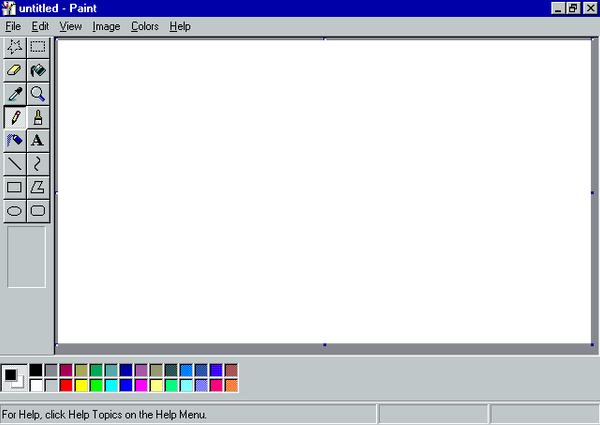
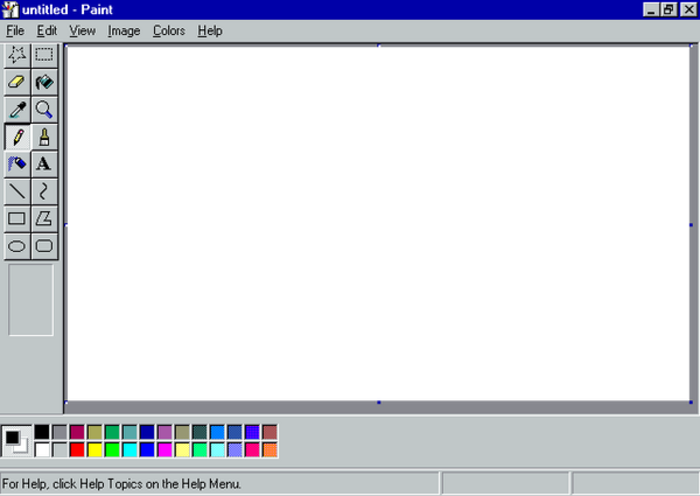
diferentes dificuultades, solo colores x ahora

diff --git a/src/Game/Game.jsx b/src/Game/Game.jsx
@@ -1,41 +1,52 @@
 import React from "react";
 import Board from "../Components/Board";
-
 import {useNavigate} from "react-router-dom";
+import "./Game.css";
+
 
 const Game = () => {
-  //mejor que sea facil: colores clasicos
-  //medium colores mas niche(?) pero distinos
-  //dificil colores similares
 
-  /*  const list = [
-    { colorName: "Red",     hex: "#FF0000" },
-    { colorName: "Orange",  hex: "#FFA500" },
-    { colorName: "Yellow",  hex: "#FFFF00" },
-    { colorName: "Green",   hex: "#008000" },
-    { colorName: "Blue",    hex: "#0000FF" },
-    { colorName: "Purple",  hex: "#800080" },
-    { colorName: "Magenta", hex: "#FF00FF" },
-    { colorName: "Black",   hex: "#000000"}
-  ]; 
+const colorHexDictionary = {
+  Red: "#FF0000",
+  Orange: "#FFA500",
+  Yellow: "#FFFF00",
+  Green: "#008000",
+  Cyan: "#00FFFF",
+  Blue: "#0000FF",
+  Purple: "#800080",
+  Magenta: "#FF00FF",
+  SlateGray: "#708090",
+  FireBrick: "#B22222",
+  Khaki: "#F0E68C",
+  YellowGreen: "#9ACD32",
+  DarkCyan: "#008B8B",
+  RoyalBlue: "#4169E1",
+  RebeccaPurple: "#663399",
+  Orchid: "#DA70D6",
+  LightCoral: "#F08080",
+  Tomato: "#FF6347",
+  GhostWhite: "#F8F8FF",
+  SpringGreen: "#00FF7F",
+  DarkTurquoise: "#00CED1",
+  MidnightBlue: "#191970",
+  MediumPurple: "#9370DB",
+  MediumVioletRed: "#C71585"
+};
 
-*/
+//recibir como query param la dificultad
+const difficulty = "hard";
 
-  const list = [
-    "Red",
-    "Orange",
-    "Yellow",
-    "Green",
-    "Blue",
-    "Purple",
-    "Magenta",
-    "Black",
-  ];
+//es solo lso colores nombres x ahora 
+const easyList = Object.keys(colorHexDictionary).slice(0, 8);
+const mediumList = Object.keys(colorHexDictionary).slice(0, 16);
+const hardList = Object.keys(colorHexDictionary).slice(0, 24);
 
-  //toda la logica de elegir modo de juego seria mandarle
-  //la lista que corresponda acorde a botones
-  //y para 2 jugadores mandarle un bool de 1 jug
+const list = difficulty === "easy" ? easyList : difficulty === "medium" ? mediumList : hardList;
+//ta raro no mg ^^
 
+//recibir como query param el numero de jugadores
+
+console.log(list);
 
   const navigate = useNavigate();
   const goHome = () => {
@@ -45,7 +56,7 @@ const Game = () => {
   return (
     <div>
       <Board list={list} />
-      <div className="button" onClick={goHome}> Play</div>
+      <div className="button" onClick={goHome}>go home</div>
     </div>
   );
 };

diff --git a/src/home/Home.jsx b/src/home/Home.jsx
@@ -1,19 +1,43 @@
 import React from "react";
 import {useNavigate} from "react-router-dom";
+import { useState } from "react";
 import "./Home.css";
 
 const Home = () => {
   const navigate = useNavigate();
   const goToBoard = () => {
     navigate("/play");
+    /*pasar como params ?? o como??*/ 
   };
+
+  const [difficulty, setDifficulty] = useState("easy");
+  const [numberOfPlayers, setNumberOfPlayers] = useState(1);
+
+  const selectDifficulty = (level) => () => {
+    setDifficulty(level);
+  }
+
+  const selectNumberOfPlayers = (num) => () => {
+    setNumberOfPlayers(num);
+  }
+
+  /* ver como hice las tabs en ml para marcar las opciones seleccionadas*/
 
   return (
     <div className="window">
       <div className="container">
         <h1 className="title">Memotest</h1>
         <h2 className="subtitle">Find the matching css standar color and it's hexcode! </h2>
-        <div className="button" onClick={goToBoard}> Play</div>
+        <div className="difficulty">
+          <div className="button" onClick={selectDifficulty("easy")}>Easy</div>
+          <div className="button" onClick={selectDifficulty("medium")}>Medium</div>
+          <div className="button" onClick={selectDifficulty("hard")}>Hard</div>
+        </div>
+        <div className="numberOfPlayers">
+          <div className="button" onClick={selectNumberOfPlayers(1)}>1 player</div>
+          <div className="button" onClick={selectNumberOfPlayers(2)}>2 players</div>
+        </div>
+        <div className="button" onClick={goToBoard}>Start Game</div>
       </div>
     </div>
   );

diff --git a/src/Game/Game.css b/src/Game/Game.css
@@ -1,24 +1,15 @@
-body {
-    background-image: url('../assets/back-2.png'); /*no cambio el fondo?/
+/*body {
+    background-image: url('../assets/back-2.png');
     background-size: cover;
     background-position: center;
     background-repeat: no-repeat;
-    /*agregarle mas mierdas al fondo asi se ve mas interesante*/
 }
 
 
 /*temporal xq despues va a un modal cuando termino el juego*/
 .button{
-    font-family: 'tanpearl';
-    color: #0d002e;
-    background-color: #7acfdf;
-    width: 50px;
-    border-radius: 100px;
-    cursor: pointer;
-    box-shadow: 4px 4px #0d002e7a;
-}
+    
+    background-color: #f169df;
 
-.button:hover{
-    background-color: #40a4b8;
-    box-shadow: 4px 4px #0d002ebb;
+    
 }

diff --git a/src/home/Home.css b/src/home/Home.css
@@ -3,13 +3,12 @@ body {
     background-size: cover;
     background-position: center;
     background-repeat: no-repeat;
-    /*agregarle mas mierdas al fondo asi se ve mas interesante*/
 }
 
 .window{
-    background-image: url('../assets/paint-frame-horizontal.png');
-    width: 600px;
-    height: 425px;
+    background-image: url('../assets/paint-frame-horizontal-f.png');
+    width: 700px;
+    height: 496px;
     padding-left: 58px;
     padding-top: 40px;
     padding-right: 9px;

diff --git a/src/Components/css/Board.css b/src/Components/css/Board.css
@@ -1,10 +1,12 @@
 .board{
-    display: grid;
-    grid-template-columns: repeat(4, 1fr);
-    grid-gap: 15px;
-    width: 600px;
+    display: flex;
+    flex-wrap: wrap;
+    justify-content: center;
+    width: 500px;
+    gap: 12px;
 }
 
 .score{
  font-size: 30px;
+ margin: 0;
 }

diff --git a/src/Components/css/Card.css b/src/Components/css/Card.css
@@ -1,6 +1,7 @@
 .card {
     cursor: pointer;
     aspect-ratio: 1 / 1;
+    width: 80px;
 }
 
 .card-front, .card-back {
